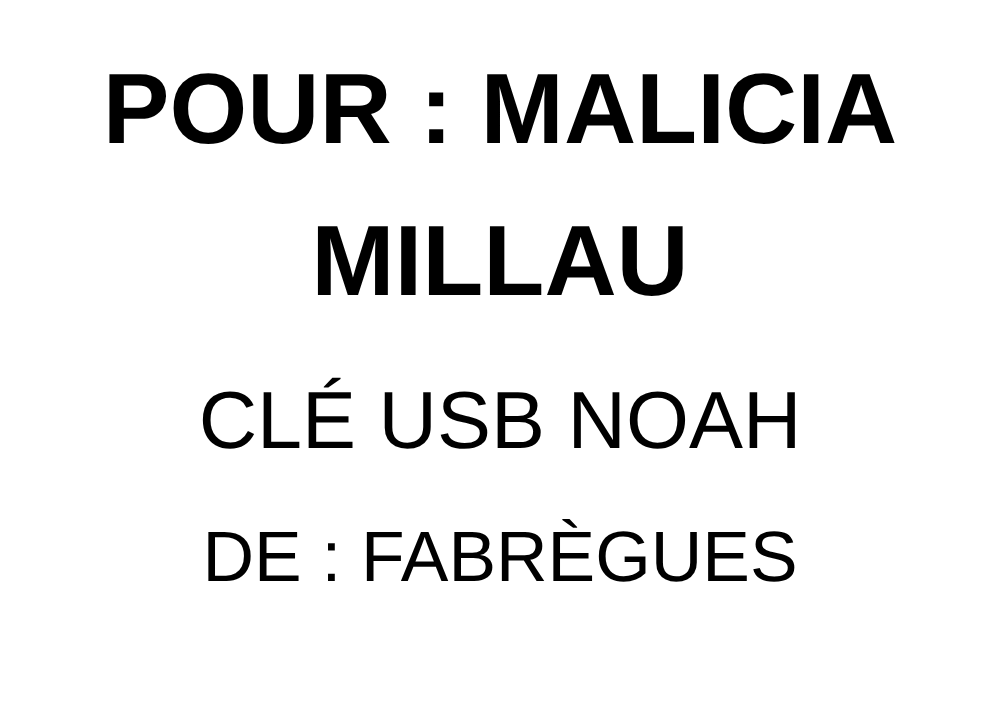
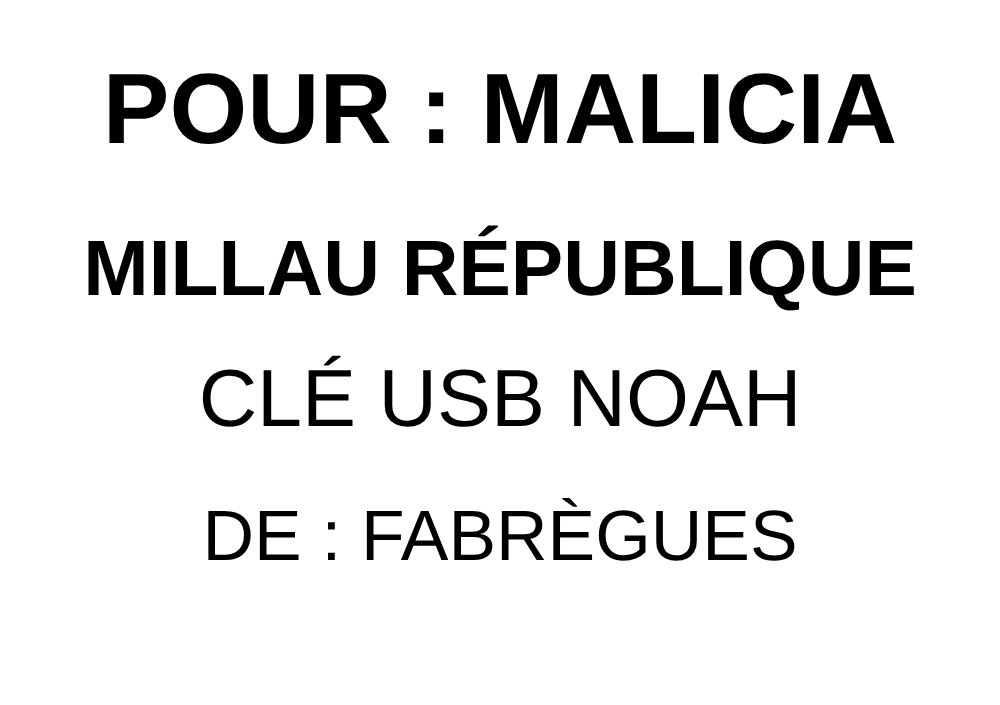
Shipping label: Millau République
Claude-Session: https://claude.ai/code/session_01EMVkydyMA4P7xfLxk6WhPd

diff --git a/affichettes/etiquette-envoi-millau/build.py b/affichettes/etiquette-envoi-millau/build.py
@@ -9,7 +9,7 @@ HERE = Path(__file__).parent
 W, H = 2100, 1480
 LIGNES = [  # (texte, taille, gras)
     ("POUR : MALICIA", 210, True),
-    ("MILLAU", 210, True),
+    ("MILLAU RÉPUBLIQUE", 165, True),
     ("CLÉ USB NOAH", 170, False),
     ("DE : FABRÈGUES", 150, False),
 ]
